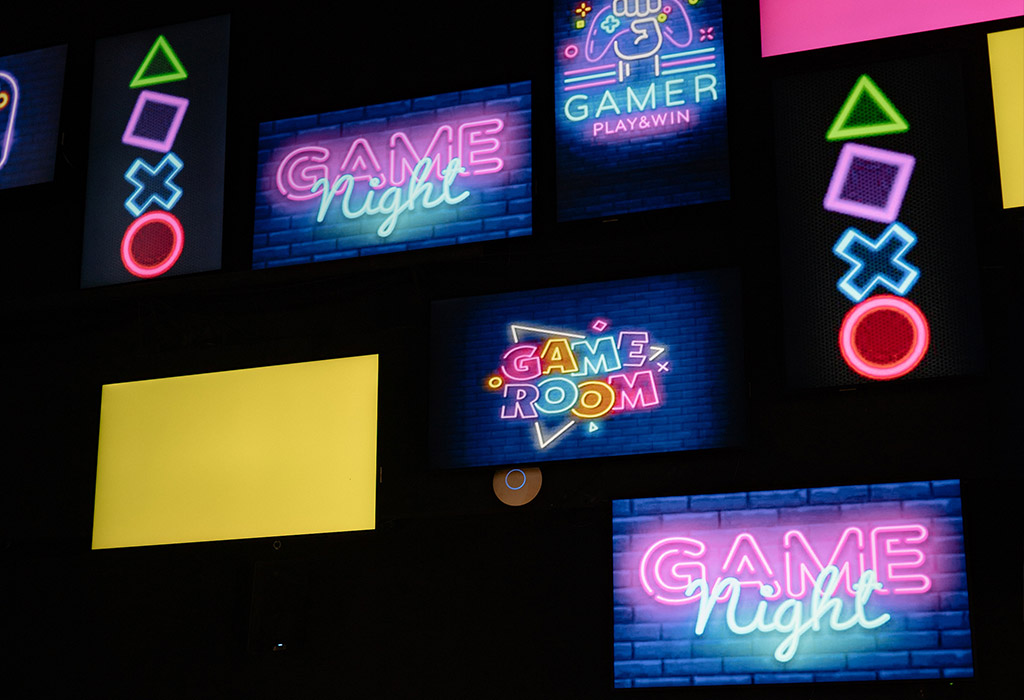
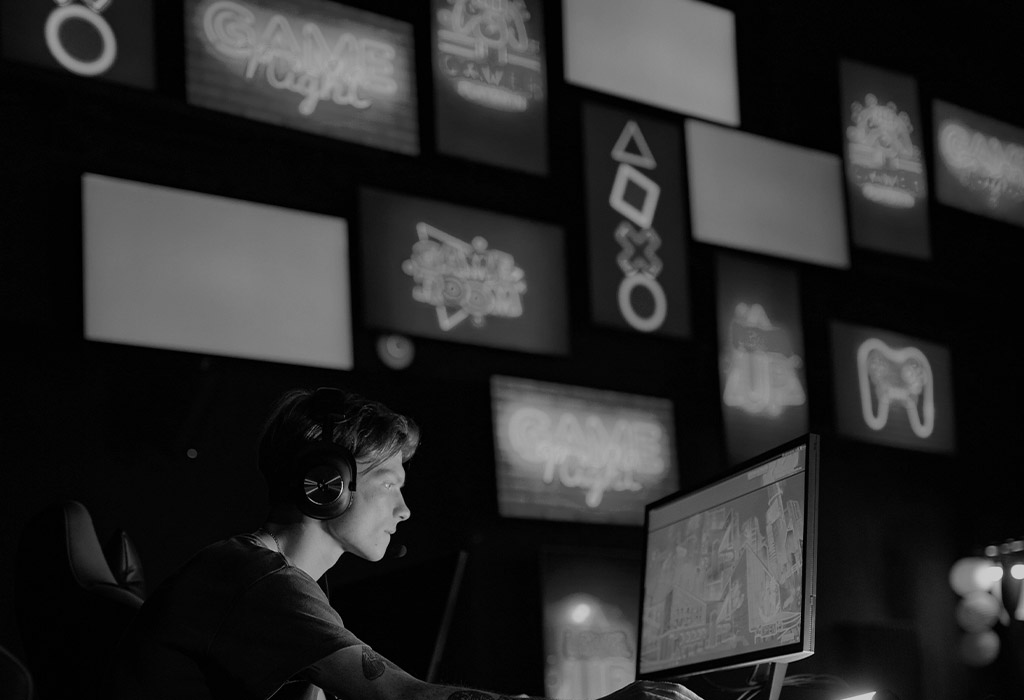
added several sections of to the HTML code, basic layout for the javascript code and added large updates to css

diff --git a/index.html b/index.html
@@ -17,7 +17,6 @@
         <section class="hero">
             <h2>Know It<br>Or<br>Blow It: <br><span>Quiz</span> Edition</h2>
             <p><i>JavaScript: Making the web more 'fun'-ctional since its creation!</i></p>
-            <!--Remember to connect this-->
             <a href="#arrow-down">
                 <ion-icon name="arrow-down-circle" aria-label="Scroll down" class="white-arrow"
                     style="font-size: 50px;"></ion-icon>
@@ -26,7 +25,82 @@
             </a>
         </section>
 
-        <script src="assets/javascript/script.js"></script>
+        <!-- Introduction -->
+        <section class="halfbox">
+            <div class="halfbox-writing" id="arrow-down">
+                <p class="subtitle">WELCOME TO OUR CHALLENGING</p>
+                <h2>JAVASCRIPT QUIZ</h2>
+                <p>Welcome to an exhilarating quiz adventure like no other! Prepare yourself for a series of
+                    mind-boggling questions that will put your knowledge to the test. With each question, you'll embark
+                    on a journey of discovery, uncovering fascinating facts and expanding your understanding of various
+                    subjects. Get ready to challenge yourself and dive into a world of curiosity!</p>
+            </div>
+            <div>
+                <img src="./assets/images/highscore-board.jpg" alt="A digital highscore board">
+            </div>
+        </section>
+
+        <!-- Key Features -->
+        <section class="key-features">
+            <div class="key-surround">
+                <h2>Key Features</h2>
+                <div class="key-flex">
+                    <h3><u>Interactive Questions</u></h3>
+                    <p>Engage in a thrilling quiz experience with thought-provoking questions that will keep you on your
+                        toes.</p>
+                    <h3><u>Real-Time Feedback</u></h3>
+                    <p>Receive instant feedback on your answers and track your progress throughout the quiz.</p>
+                    <h3><u>Exciting Sound Effects</u></h3>
+                    <p>Immerse yourself in the quiz atmosphere with captivating sound effects that enhance your gaming
+                        experience.</p>
+                    <h3><u>High Score Competition</u></h3>
+                    <p>Compete with friends and fellow quiz enthusiasts for the top spot on the leaderboard and prove
+                        your knowledge reigns supreme.</p>
+                </div>
+            </div>
+        </section>
+
+        <!-- Get Started Section -->
+        <section class="halfbox2">
+            <div>
+                <img src="./assets/images/game-room-wall-background.jpg" alt="gamer sitting at a chair and computer">
+            </div>
+            <div class="halfbox2-writing">
+                <h2>GET STARTED</h2>
+                <p>Whether you're a trivia aficionado or simply looking for a fun and educational activity, our quiz
+                    will provide hours of entertainment and valuable learning. Are you ready to embark on this thrilling
+                    quiz adventure and put your knowledge to the test? Let the journey begin!
+                </p>
+                <a href="#quiz-container" class="halfbox-btn">TAKE THE QUIZ</a>
+            </div>
+        </section>
+
+        <!-- Quiz Section- -->
+        <section class="quiz-section">
+            <div class="quiz-container" id="quiz-container">
+                <div id="rulesContainer">
+                    <h4 class="quiz-titles" id="quiz-title-rules">Rules</h4>
+                    <p class=quiz-instructions id="quiz-rules">Welcome to the LogicLab's "Know It or Blow It:
+                        Javascript Quiz"! Get ready to
+                        test your knowledge and race against the clock! You have a thrilling 2 minutes to tackle 15
+                        mind-bending questions. But here's the catch: the faster you answer correctly, the higher your
+                        score! Each correct answer will earn you points based on the time you have left. So, think fast,
+                        act
+                        swiftly, and maximize your score! But beware, 15 precious seconds will be snatched away from
+                        your
+                        countdown for every wrong answer. Can you conquer the challenge and rise to the top of the
+                        leaderboard? Get ready to unleash your brainpower and go on an epic quiz adventure!
+                    </p>
+                    <button class="quiz-btn" id="next-btn">NEXT</button>
+                </div>
+                <div id="countdownContainer" style="display: none;">
+                    <h4 class="quiz-titles" id="quiz-countdown">5, 4, 3, 2, 1...</h4>
+                    <button class="quiz-btn" id="start-btn">START</button>
+                </div>
+            </div>
+        </section>
+
+        <script src=" assets/javascript/script.js"></script>
         <script type="module" src="https://unpkg.com/ionicons@7.1.0/dist/ionicons/ionicons.esm.js"></script>
         <script nomodule src="https://unpkg.com/ionicons@7.1.0/dist/ionicons/ionicons.js"></script>
     </main>

diff --git a/assets/css/style.css b/assets/css/style.css
@@ -2,10 +2,10 @@
 @import url('https://fonts.googleapis.com/css2?family=Cormorant+Garamond:wght@500&display=swap');
 
 :root {
-    --light: ;
-    --lighter: #a5a5a5;
-    --dark: ;
-    --darkest: #303030;
+    --keylime: #DCFFB0;
+    --lightgrey: #a5a5a5;
+    --darkgrey: #303030;
+    --darkestgrey: #050405;
     --accent: #C1FF72;
     --white: #ffffff;
     --black: #000000;
@@ -14,6 +14,7 @@
 body {
     font-size: 16px;
     margin: 0;
+    font-family: 'Cormorant Garamond', serif;
 }
 
 span {
@@ -30,7 +31,7 @@ header {
     width: 100%;
     color: var(--white);
     background-size: cover;
-    background-color: var(--darkest);
+    background-color: var(--darkestgrey);
 }
 
 header ion-icon {
@@ -100,7 +101,7 @@ header nav a:hover {
 }
 
 .dropdown-content a {
-    color: var(--black);
+    color: var(--darkestgrey);
     padding: 12px 16px;
     text-decoration: none;
     display: block;
@@ -109,7 +110,7 @@ header nav a:hover {
 
 .dropdown-content a:hover {
     color: var(--accent);
-    background-color: var(--darkest);
+    background-color: var(--darkestgrey);
 }
 
 /* HERO IMAGE SECTION */
@@ -163,4 +164,114 @@ header nav a:hover {
     z-index: 1;
 }
 
-/* HEADER & NAVIGATION SECTION */
+/* HALF BOXES (INTRODUCTION & GET STARTED SECTIONS) */
+.halfbox,
+.halfbox2 {
+    display: flex;
+    align-items: stretch;
+    justify-content: center;
+    width: 100%;
+    height: 600px;
+    background-color: var(--keylime);
+}
+
+/* Creates a two-column layout within elements with the class .halfbox and .halfbox2. Flex 1 lets them grow and shrink equally while 50% sets the width sharing both colums equally */
+.halfbox>div,
+.halfbox2>div {
+    flex: 1;
+    width: 50%;
+}
+
+.halfbox-writing,
+.halfbox2-writing {
+    display: flex;
+    flex-direction: column;
+    justify-content: center;
+    align-items: left;
+    text-align: left;
+    padding: 0 40px;
+}
+
+.halfbox h2,
+.halfbox2 h2 {
+    font-size: 40px;
+    color: var(--darkestgrey);
+    text-align: left;
+    margin: 10px 0 15px 0;
+    padding: 0 40px;
+    font-family: 'Playfair Display', serif;
+}
+
+.halfbox p,
+.halfbox2 p {
+    margin: 0;
+    text-align: left;
+    padding: 15px 40px;
+}
+
+p.subtitle {
+    margin-left: 40px;
+    padding: 0;
+}
+
+.halfbox img,
+.halfbox2 img {
+    max-height: 700px;
+    object-fit: cover;
+    object-position: center;
+    width: 100%;
+    height: 100%;
+}
+
+.halfbox-btn {
+    display: inline-block;
+    width: 150px;
+    padding: 10px;
+    margin: 20px 40px;
+    color: var(--white);
+    background-color: var(--black);
+    text-align: center;
+    text-decoration: none;
+}
+
+/* KEY FEATURES SECTION */
+
+
+/* QUIZ SECTION */
+.quiz-section {
+    display: flex;
+    justify-content: center;
+    align-items: center;
+    width: 100%;
+    height: 600px;
+    background-color: var(--black);
+}
+
+.quiz-container {
+    margin-top: 40px;
+    color: var(--white);
+    font-size: 130px;
+    padding-bottom: 0;
+    width: 700px;
+    text-align: center;
+}
+
+.quiz-btn {
+    width: 150px;
+    padding: 10px;
+    margin: 20px 40px;
+    color: var(--black);
+    background-color: var(--accent);
+    text-align: center;
+    height: auto;
+}
+
+.quiz-titles {
+    text-shadow: 4px 4px 4px var(--accent);
+    padding: 0;
+    margin: 0;
+}
+
+.quiz-instructions {
+    font-size: 16px;
+}

diff --git a/assets/javascript/script.js b/assets/javascript/script.js
@@ -1,13 +1,39 @@
-// to ensure header runs on each HTML page
+// Ensures the header is loaded on each HTML page
 fetch('header.html')
-    // then is a type of method that works with js promises to handle asynchronous operations. Then executes the next steps once the promise is resolved (ie when it successfully completes task)
+    // The 'then' method handles asynchronous operations and executes the next steps once the promise is resolved (i.e., when it successfully completes the task)
     // response.text extracts content from requested page in plain text to bring header to the pages its called
     .then(response => response.text())
     .then(content => {
         const headerElement = document.getElementById('header');
         headerElement.innerHTML = content;
     })
-    // catch handles errors that happen while fetching header while console.error prints the error into the console for debugging
+    // Handles any errors that occur while fetching the header and logs them to the console for debugging
     .catch(error => {
         console.error('Error loading header:', error);
     });
+
+// NOTE: Because the header is asynchronous, it won't block the execution of the rest of the code
+
+var rulesContainer = document.getElementById("rulesContainer");
+var countdownContainer = document.getElementById("countdownContainer");
+var quizContainer = document.getElementById("quizContainer");
+var quizNextButton = document.getElementById("next-btn");
+var quizStartButton = document.getElementById("start-btn");
+
+quizNextButton.addEventListener(`click`, function () {
+    rulesContainer.style.display = "none";
+    countdownContainer.style.display = "block";
+});
+
+    // General Plan:
+    // Declare variables to keep track of score
+    // Implement a way to select 15 random questions from a pool of 40
+    // Have questions load one at a time
+    // Play sound whether the answer is right or wrong
+    // Figure out how to add countdown music for the last 10 seconds, also add a mute button
+    // Implement a scoring point system
+    // Add a timer that awards points based on how fast the user answers and deducts 15 seconds if the answer is wrong
+    // Possibly create two timers? One for the overall quiz, and one for each question. give harder questions more time?
+    // Continue with the remaining questions
+    // Implement initial score keeping using local storage
+    // Add functionality to reset the game
